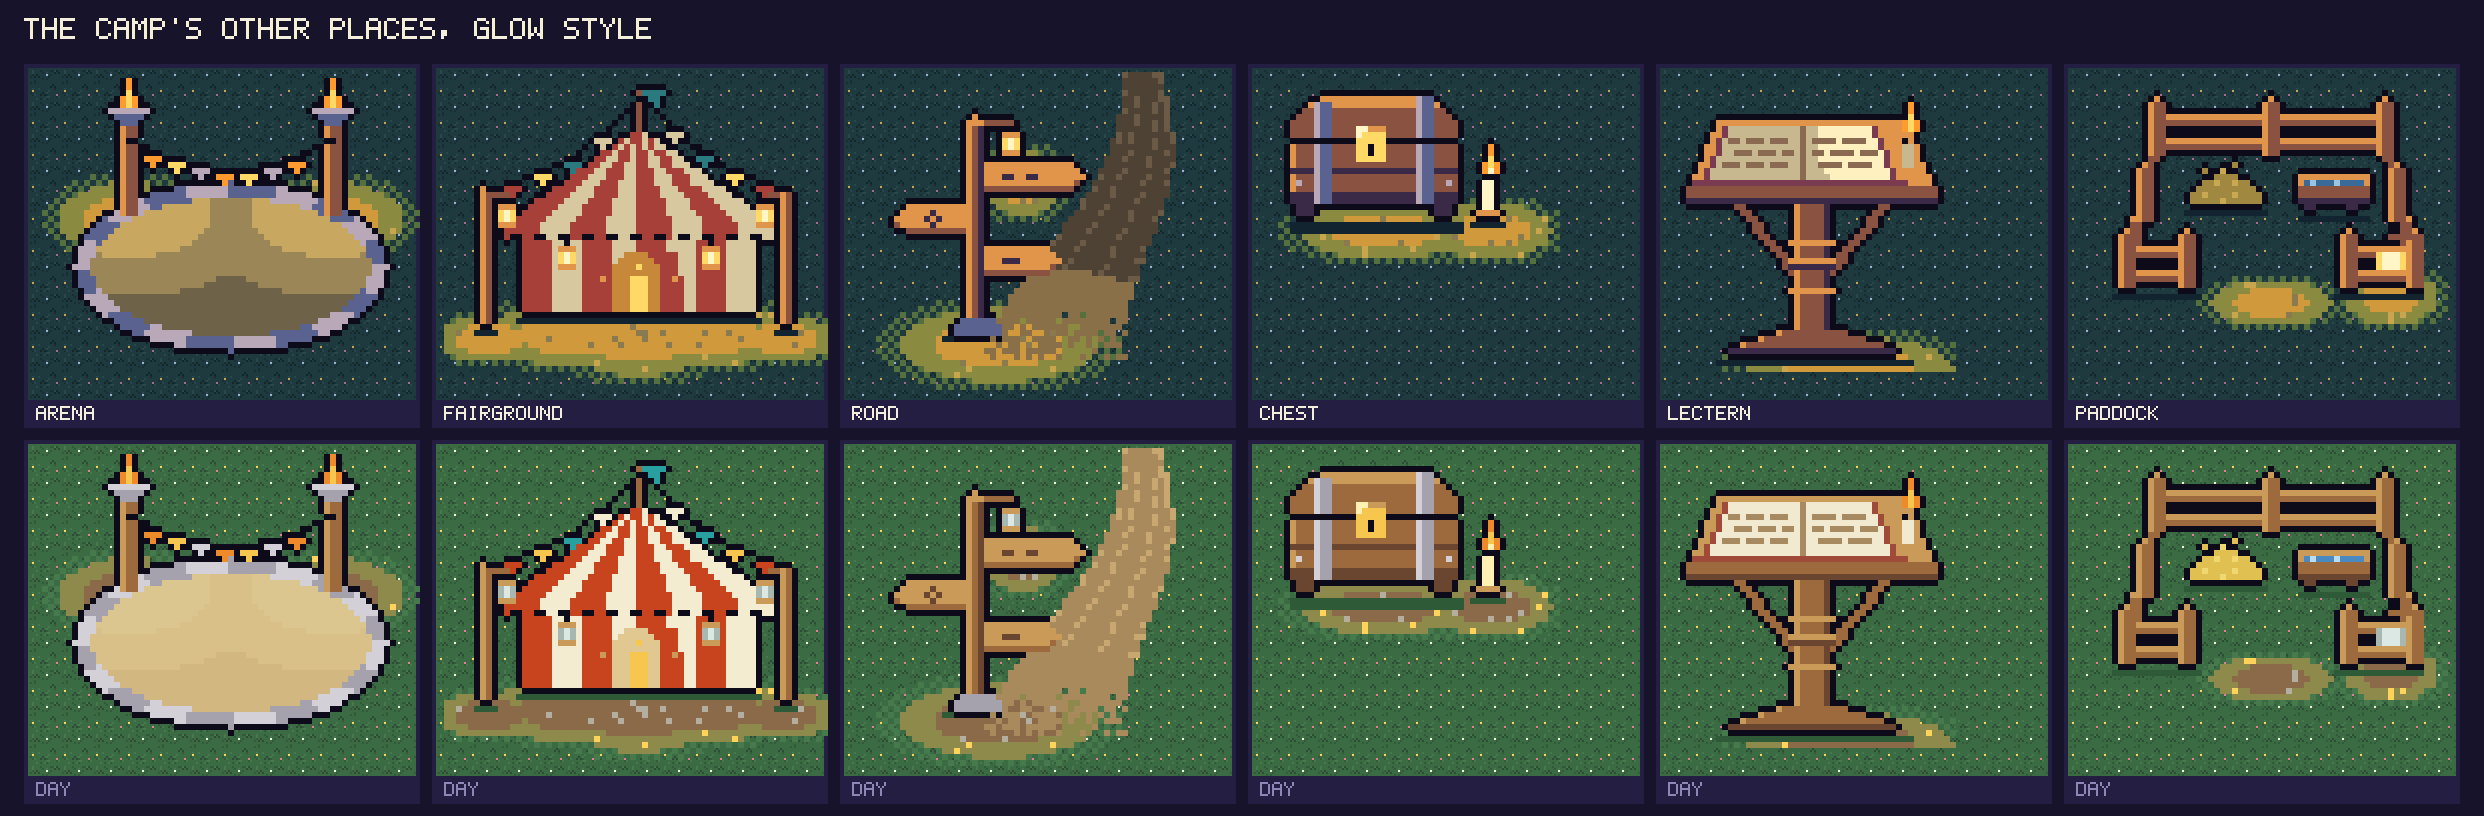
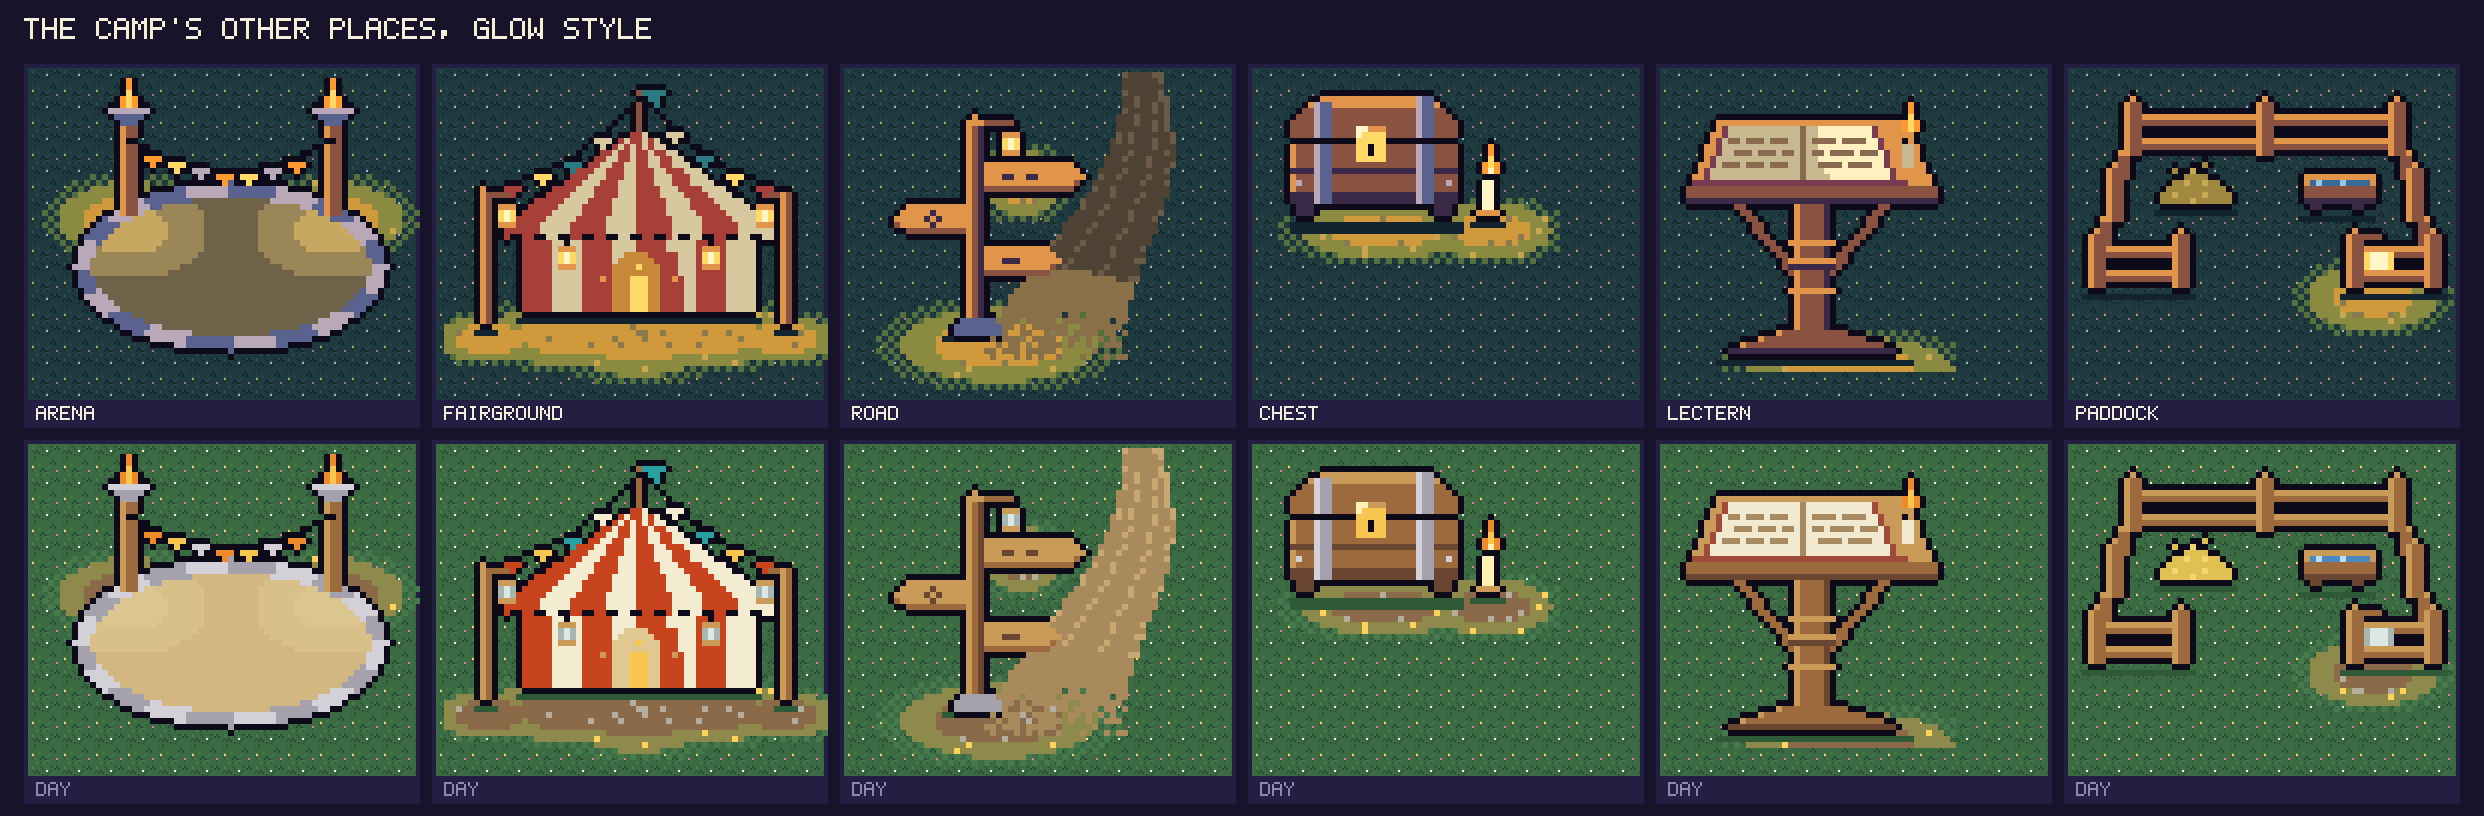
valley-glow-camp: flat arena sand with rings at the braziers, wider paddock with gate lantern
Claude-Session: https://claude.ai/code/session_01TqJ8tUAM4Muj4eb7wE4uc8

Changed region(s): [[0.837, 0.1225, 0.9919, 0.4289], [0.837, 0.5821, 0.9919, 0.8885], [0.031, 0.2451, 0.155, 0.3676]]

diff --git a/apps/activity/src/sprites/concepts/valley-glow-camp.ts b/apps/activity/src/sprites/concepts/valley-glow-camp.ts
@@ -24,9 +24,9 @@ const ARENA: SpriteDef = {
     u: '#e0954a',
     v: '#8a5240',
     j: '#c9a64e',
-    B: '#c8a860',
-    b: '#9a8656',
     a: '#6e6248',
+    b: '#9a8656',
+    B: '#c8a860',
   },
   rows: [
     '................................................................',
@@ -50,22 +50,22 @@ const ARENA: SpriteDef = {
     '......1.1.1.2kuvvk2.1.1kkkkkkkkotkkykkkkkk1.1.jkuvvk2.1.1.1.....',
     '.....1.1.2222kuvvk2kkkkttSSSSSSSttttttttSSkkkk2kuvvk2222.1.1....',
     '....1.1222222kuvvkkttttttSSSSSSSttttttttSSSSSSkkuvvk2222221.1...',
-    '...1.22222233kuvvSttttttttBBBbbbbbbbBBBSSSSSSSStuvvk33222222.1..',
-    '..1.222223333kuvvSSttBBBBBBBBbbbbbbbBBBBBBBBSSttuvvk333322222.1.',
-    '.1.12222333kkSuvvSBBBBBBBBBBBbbbbbbbBBBBBBBBBBBtuvvtkk33322221.1',
-    '..1.222233ktSSSSBBBBBBBBBBBBBbbbbbbbBBBBBBBBBBBBBttttSk332222.1.',
-    '.1.122223kttttBBBBBBBBBBBBBBBbbbbbbbBBBBBBBBBBBBBBBSSSSk322221.1',
-    '..1.2222kttttBBBBBBBBBBBBBBBbbbbbbbbbBBBBBBBBBBBBBBBSSSSk22j2.1.',
-    '...1.22kttttBBBBBBBBBBBBBBBbbbbbbbbbbbBBBBBBBBBBBBBBBSSSSk22.1..',
-    '....1.1kSStBBBBBBBBBBBBBBBbbbbbbbbbbbbbBBBBBBBBBBBBBBBSttk1.1...',
-    '.....1kSSSBBBBBBBBBBBBBBbbbbbbbbbbbbbbbbbBBBBBBBBBBBBBBtttk1....',
-    '......kSSSbBBBBBBBBBbbbbbbbbbbbbbbbbbbbbbbbbbBBBBBBBBBbtttk.....',
-    '......kSSbbbbbbbbbbbbbbbbbbbbbbbbbbbbbbbbbbbbbbbbbbbbbbbttk.....',
-    '.....kSSSbbbbbbbbbbbbbbbbbbbbbbbbbbbbbbbbbbbbbbbbbbbbbbbSSSk....',
-    '......kttbbbbbbbbbbbbbbbbbbbbbbbbbbbbbbbbbbbbbbbbbbbbbbbSSk.....',
-    '......ktttbbbbbbbbbbbbbbbbbbbbaaaaabbbbbbbbbbbbbbbbbbbbSSSk.....',
-    '......ktttbbbbbbbbbbbbbbbbbbaaaaaaaaabbbbbbbbbbbbbbbbbbSSSk.....',
-    '.......kttSbbbbbbbbbbbbbaaaaaaaaaaaaaaaaabbbbbbbbbbbbbtSSk......',
+    '...1.22222233kuvvSttttttttaaaaaaaaaaaaaSSSSSSSStuvvk33222222.1..',
+    '..1.222223333kuvvSSttbbbbbbaaaaaaaaaaabbbbbbSSttuvvk333322222.1.',
+    '.1.12222333kkSuvvSBBbbbbbbbbaaaaaaaaabbbbbbbbBBtuvvtkk33322221.1',
+    '..1.222233ktSSSSBBBBBbbbbbbbaaaaaaaaabbbbbbbBBBBBttttSk332222.1.',
+    '.1.122223kttttBBBBBBBBbbbbbbaaaaaaaaabbbbbbBBBBBBBBSSSSk322221.1',
+    '..1.2222kttttBBBBBBBBBbbbbbbaaaaaaaaabbbbbbBBBBBBBBBSSSSk22j2.1.',
+    '...1.22kttttBBBBBBBBBBbbbbbbaaaaaaaaabbbbbbBBBBBBBBBBSSSSk22.1..',
+    '....1.1kSStBBBBBBBBBBbbbbbbbaaaaaaaaabbbbbbbBBBBBBBBBBSttk1.1...',
+    '.....1kSSSbBBBBBBBBBbbbbbbbbaaaaaaaaabbbbbbbbBBBBBBBBBbtttk1....',
+    '......kSSSbbbbbbbbbbbbbbbbbaaaaaaaaaaabbbbbbbbbbbbbbbbbtttk.....',
+    '......kSSbbbbbbbbbbbbbbbbbaaaaaaaaaaaaabbbbbbbbbbbbbbbbbttk.....',
+    '.....kSSSbbbbbbbbbbbbbbbaaaaaaaaaaaaaaaaabbbbbbbbbbbbbbbSSSk....',
+    '......kttbbbbbbbbbbbbbaaaaaaaaaaaaaaaaaaaaabbbbbbbbbbbbbSSk.....',
+    '......ktttaaaaaaaaaaaaaaaaaaaaaaaaaaaaaaaaaaaaaaaaaaaaaSSSk.....',
+    '......ktttaaaaaaaaaaaaaaaaaaaaaaaaaaaaaaaaaaaaaaaaaaaaaSSSk.....',
+    '.......kttSaaaaaaaaaaaaaaaaaaaaaaaaaaaaaaaaaaaaaaaaaaatSSk......',
     '.......kSSSSaaaaaaaaaaaaaaaaaaaaaaaaaaaaaaaaaaaaaaaaattttk......',
     '........kSSSSaaaaaaaaaaaaaaaaaaaaaaaaaaaaaaaaaaaaaaattttk.......',
     '.........kSSSSaaaaaaaaaaaaaaaaaaaaaaaaaaaaaaaaaaaaattttk........',
@@ -96,9 +96,9 @@ const ARENA_DAY = {
   u: '#c99a58',
   v: '#9c6a3c',
   j: '#ffd25a',
-  B: '#dcc690',
-  b: '#d8c088',
   a: '#d2b880',
+  b: '#d8c088',
+  B: '#dcc690',
 };
 
 const FAIRGROUND: SpriteDef = {
@@ -468,54 +468,54 @@ const PADDOCK: SpriteDef = {
     x: '#112430',
     G: '#ffd966',
     H: '#fff6c8',
-    j: '#c9a64e',
     p: '#8a7a50',
+    j: '#c9a64e',
   },
   rows: [
     '................................................................',
     '................................................................',
     '................................................................',
-    '.............k..................k..................k............',
-    '............kuk................kuk................kuk...........',
-    '...........kuvvk..............kuvvk..............kuvvk..........',
-    '...........kuvvkkkkkkkkkkkkkkkkuvvkkkkkkkkkkkkkkkkuvvk..........',
-    '...........kuvvuuuuuuuuuuuuuuuuuvvuuuuuuuuuuuuuuuuuvvk..........',
-    '...........kuvvvvvvvvvvvvvvvvvvuvvvvvvvvvvvvvvvvvvuvvk..........',
-    '...........kuvvkkkkkkkkkkkkkkkkuvvkkkkkkkkkkkkkkkkuvvk..........',
-    '...........kuvvkkkkkkkkkkkkkkkkuvvkkkkkkkkkkkkkkkkuvvk..........',
-    '...........kuvvuuuuuuuuuuuuuuuuuvvuuuuuuuuuuuuuuuuuvvk..........',
-    '...........kuvvvvvvvvvvvvvvvvvvuvvvvvvvvvvvvvvvvvvuvvk..........',
-    '...........kuvvkkkkkkkkkkkkkkkkuvvkkkkkkkkkkkkkkkkuvvk..........',
-    '...........kvvk...........k....kkk................kvvk..........',
-    '..........kuvk.......k..kkhk.......................kvuk.........',
-    '.........kuvvk......khkkikk..........kkkkkkkkkkkk..kuvvk........',
-    '.........kuvvk.......kkhhhhkk.......kuuuuuuuuuuuuk.kuvvk........',
-    '.........kuvvk......khhihhihhk......kuzZzzzZzzzzuk.kuvvk........',
-    '.........kuvvk.....khhhhhhhhhhk.....kvvvvvvvvvvvvk.kuvvk........',
-    '.........kuvvk....khhihhhhihhhhk....kvvvvvvvvvvvvk.kuvvk........',
-    '.........kuvvk....khhhhhihhhhhhk....kwwwwwwwwwwwwk.kuvvk........',
-    '.........kuvvk.....kkkkkkkkkkkk......kwwkkkkkwwkk..kuvvk........',
-    '.........kuvvk....xxxxxxxxxxxxxx......kk.....kk....kuvvk........',
-    '........kuuvvk.......................xxxxxxxxxxxx..kuvvuk.......',
-    '........kvvkk.....k..........................k......kkvvk.......',
-    '.......kuvvk.....kuk........................kuk.....kkvvuk......',
-    '......kuvvvk....kuvvk......................kuvvk...kvvvvvv......',
-    '......kuvvvkkkkkkuvvk......................kuvvkkkkkkkvuvv......',
-    '......kuvvuuuuuuuuvvk......................kuvvuuuuuuuuuvv......',
-    '......kuvvvvvvvvvuvvk......................kuvvvvvGHHHGuvv......',
-    '......kuvvkkkkkkkuvvk......................kuvvkkkGHHHGuvv......',
-    '......kuvvkkkkkkkuvvk......................kuvvkkkGHHHGuvv......',
-    '......kuvvuuuuuuuuvvk......................kuvvuuuuuuuuuvv.1....',
-    '......kuvvvvvvvvvuvvk.....1.1.1.1.1.1.1....kuvvvvvvvvvvuvv1.1...',
-    '......kuvvkkkkkkkuvvk..1.122jj2222222221.1.kuvvkkkkkkkkuvv22.1..',
-    '.......kkk.......kkk..1.22222333333322222.1.kkk23333333kkk221...',
-    '......xxxxxxxxxxxxxxx1.2222333333333p32222.xxxxxxxxxxxxxxx22.1..',
-    '....................1.22223333333333p332222.12223333333332221...',
-    '.....................1.2222333333333332222.1.222233333332222.1..',
-    '......................1.22j22333333p22222.1.1.122222j2j2221.1...',
-    '.......................1.122222222222221.1...1.12222j22221.1....',
-    '..........................1.1.1.1.1.1.1.........1.1.1.1.1.......',
-    '................................................................',
+    '.........k.....................k.....................k..........',
+    '........kuk...................kuk...................kuk.........',
+    '.......kuvvk.................kuvvk.................kuvvk........',
+    '.......kuvvkkkkkkkkkkkkkkkkkkkuvvkkkkkkkkkkkkkkkkkkkuvvk........',
+    '.......kuvvuuuuuuuuuuuuuuuuuuuuvvuuuuuuuuuuuuuuuuuuuuvvk........',
+    '.......kuvvvvvvvvvvvvvvvvvvvvvuvvvvvvvvvvvvvvvvvvvvvuvvk........',
+    '.......kuvvkkkkkkkkkkkkkkkkkkkuvvkkkkkkkkkkkkkkkkkkkuvvk........',
+    '.......kuvvkkkkkkkkkkkkkkkkkkkuvvkkkkkkkkkkkkkkkkkkkuvvk........',
+    '.......kuvvuuuuuuuuuuuuuuuuuuuuvvuuuuuuuuuuuuuuuuuuuuvvk........',
+    '.......kuvvvvvvvvvvvvvvvvvvvvvuvvvvvvvvvvvvvvvvvvvvvuvvk........',
+    '......kuuvvkkkkkkkkkkkkkkkkkkkuvvkkkkkkkkkkkkkkkkkkkuvvuk.......',
+    '......kvvkk..........k........kkk...................kkvvk.......',
+    '.....kuvvk......k..kkhk..............................kvvuk......',
+    '....kuvvvk.....khkkikk................kkkkkkkkkkkk...kvuvvk.....',
+    '....kuvvvk......kkhhhhkk.............kuuuuuuuuuuuuk..kvuvvk.....',
+    '....kuvvk......khhihhihhk............kuzZzzzZzzzzuk...kuvvk.....',
+    '....kuvvk.....khhhhhhhhhhk...........kvvvvvvvvvvvvk...kuvvk.....',
+    '....kuvvk....khhihhhhihhhhk..........kvvvvvvvvvvvvk...kuvvk.....',
+    '....kuvvk....khhhhhihhhhhhk..........kwwwwwwwwwwwwk...kuvvk.....',
+    '....kuvvk.....kkkkkkkkkkkk............kwwkkkkkwwkk....kuvvk.....',
+    '....kuvvk....xxxxxxxxxxxxxx............kk.....kk......kuvvk.....',
+    '...kuuvvk............................xxxxxxxxxxxxx....kuvvuk....',
+    '...kvvkk.........k............................k........kkvvk....',
+    '..kuvvk.........kuk..........................kukkkk.....kvvuk...',
+    '.kuvvvk........kuvvk........................kuvvvvvk....kvuvvk..',
+    '.kuvvvkkkkkkkkkkuvvk........................kuvvkkkkkkkkkvuvvk..',
+    '.kuvvuuuuuuuuuuuuvvk........................kuvvuuuuuuuuuuuvvk..',
+    '.kuvvvvvvvvvvvvvuvvk........................kuvvGHHHGvvvvvuvvk..',
+    '.kuvvkkkkkkkkkkkuvvk.......................1kuvvGHHHGkkkkkuvvk..',
+    '.kuvvkkkkkkkkkkkuvvk....................1.1.kuvvGHHHGkkkkkuvvk..',
+    '.kuvvuuuuuuuuuuuuvvk...................1.122kuvvuuuuuuuuuuuvvk..',
+    '.kuvvvvvvvvvvvvvuvvk..................1.2222kuvvvvvvvvvvvvuvvk..',
+    '.kuvvkkkkkkkkkkkuvvk.................1.22222kuvvkkkkkkkkkkuvvk..',
+    '..kkk...........kkk.................1.1222233kkk3333333322kkk.1.',
+    '.xxxxxxxxxxxxxxxxxxx.................1.22223xxxxxxxxxxxxxxxxxx..',
+    '....................................1.122223p3333333333322221.1.',
+    '.....................................1.222223333333333322222.1..',
+    '......................................1.2222j2pp3333p2j2222.1...',
+    '.......................................1.12222222222j22221.1....',
+    '........................................1.1.12222222221.1.1.....',
+    '...........................................1.1.1.1.1.1.1........',
     '................................................................',
     '................................................................',
     '................................................................',
@@ -540,8 +540,8 @@ const PADDOCK_DAY = {
   x: '#2f5a38',
   G: '#a8b8b0',
   H: '#dce8e4',
-  j: '#ffd25a',
   p: '#b4ae9e',
+  j: '#ffd25a',
 };
 
 /** The same night grass as `valley-glow`; the backdrop's `day` alt is the normal grass. */
@@ -603,7 +603,7 @@ export const VALLEY_GLOW_CAMP_CONCEPTS: ConceptSet = {
     },
     paddock: {
       kind: 'free',
-      note: 'A fenced pen seen from the front-top: a straight back rail, short side rails, front rails with an open gate gap, a hay pile and a water trough at the back and a lantern on a front post. The inside is open grass for creatures. The lantern and the gate lie in stepped rings; by day the lantern is unlit and the gate ground is trodden dirt.',
+      note: 'A fenced pen seen from the front-top: a straight back rail, short side rails, front rails with an open gate gap, a hay pile and a water trough at the back and a lantern on a front post. The inside is open grass for creatures. The lantern on the gate post lays stepped rings on the gate ground; by day it is unlit and the ground is trodden dirt.',
       sprite: PADDOCK,
       alts: { day: PADDOCK_DAY },
     },

diff --git a/docs/art/README.md b/docs/art/README.md
@@ -95,7 +95,7 @@ Status: **liked** means Misa approved the look; **draft** means he has not said 
 - **Status:** draft
 - **Requested:** 2026-11-03: the valley prototype's remaining places (arena, fairground, road, chest, lectern, paddock) in the liked glow style, day and night.
 - **Source:** `apps/activity/src/sprites/concepts/valley-glow-camp.ts` (draw it with `pnpm art valley-glow-camp`)
-- **Sheet of:** `3916280a5c8f`
+- **Sheet of:** `3097f5418a22`
 - Extends the liked `valley-glow` set (same palette keys, ink, light rings and cast shadow) with the places the valley prototype draws in the camp clearing: `apps/activity/src/proto/party/` and `proto/valley/` on branch `origin/ccr-93a1de17-yutb1a`.
 - The backdrop is the same as `valley-glow`: the world map grass tile in its night recolour, `alts.day` is the normal grass.
 - By day the light rings become ground: worn dirt, trodden grass, pebbles and flowers. Fire (arena braziers) stays lit by day; lanterns and candles are unlit glass or plain wax. No text on any sign or page, only marks.
@@ -107,7 +107,7 @@ Status: **liked** means Misa approved the look; **draft** means he has not said 
 | `road` | free |  | draft | Where the road leaves the camp: a worn dirt path running off the top edge and fraying into the grass at its foot, a wooden signpost with three plank arrows (marks, no words) and a lantern on a hook. The lantern light lies on the path and grass in stepped rings. By day the lantern is unlit and the ground is a dirt patch with pebbles. |
 | `chest` | free |  | draft | The shared camp chest: a banded wooden chest, lid closed (a lighter lid top and a dark seam), with a gold lock plate and a small glint, and a candle on the ground beside it. The candle light lies on the grass in stepped rings. By day the candle is unlit and the ground is trodden dirt. |
 | `lectern` | free |  | draft | A reading stand: a slanted desk with an open journal (marks, no words) and a lit candle, on a single carved wooden post with a flared foot and two brackets under the desk. The candle lights the right-hand page and lays stepped rings on the grass. By day the candle is unlit and the ground is worn dirt. |
-| `paddock` | free |  | draft | A fenced pen seen from the front-top: a straight back rail, short side rails, front rails with an open gate gap, a hay pile and a water trough at the back and a lantern on a front post. The inside is open grass for creatures. The lantern and the gate lie in stepped rings; by day the lantern is unlit and the gate ground is trodden dirt. |
+| `paddock` | free |  | draft | A fenced pen seen from the front-top: a straight back rail, short side rails, front rails with an open gate gap, a hay pile and a water trough at the back and a lantern on a front post. The inside is open grass for creatures. The lantern on the gate post lays stepped rings on the gate ground; by day it is unlit and the ground is trodden dirt. |
 
 <a id="valley-glow"></a>
 
